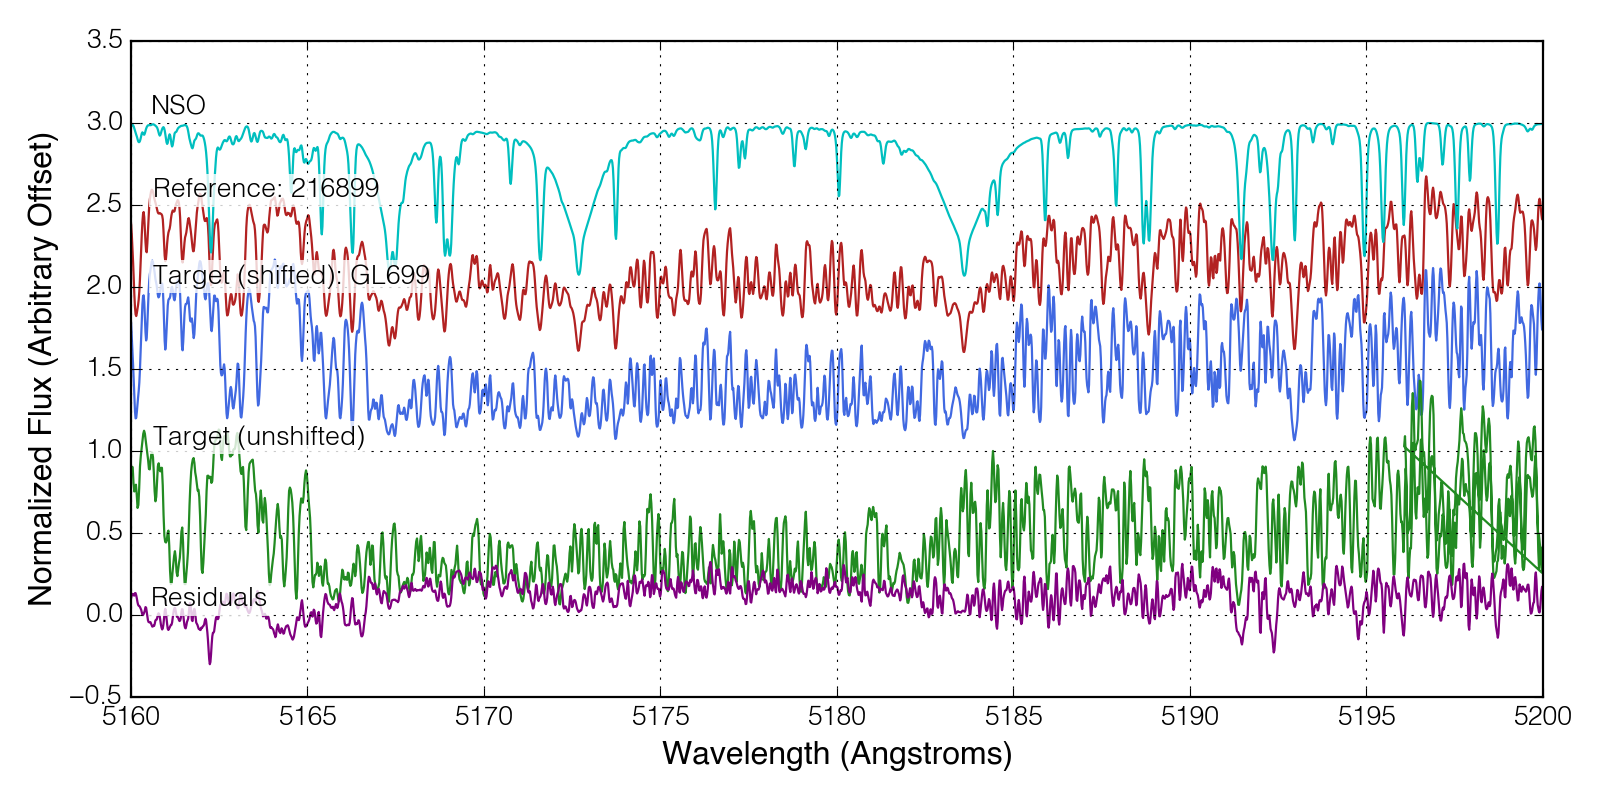
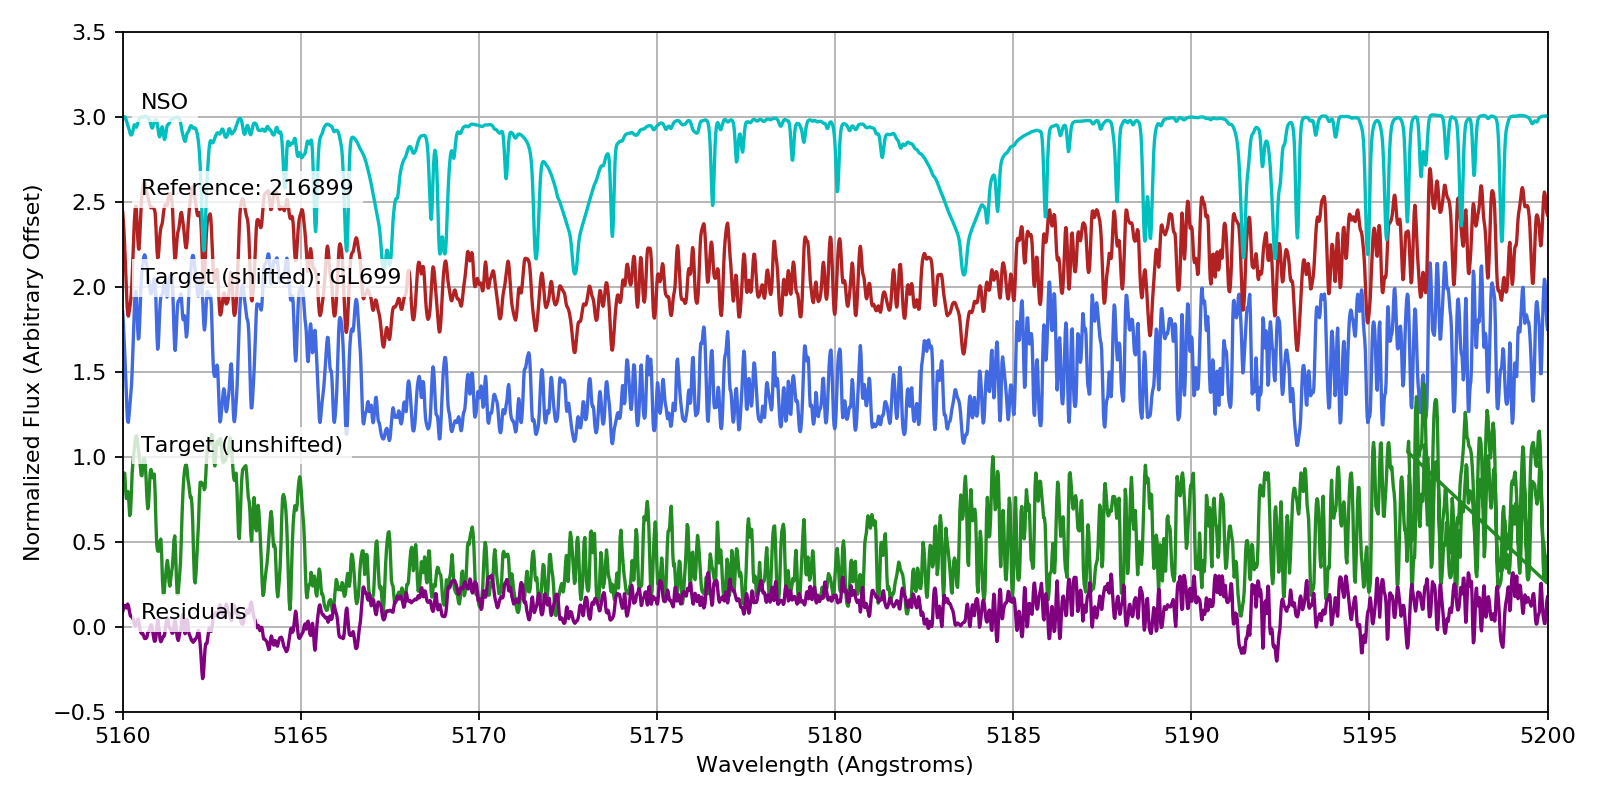
Updated all documentation

diff --git a/docs/quickstart.py b/docs/quickstart.py
@@ -53,8 +53,8 @@ g = cut.groupby(pd.cut(cut.Teff,bins=arange(3000,7000,500)))
 cut = g.first()
 
 fig = figure()
-plot(lib.library_params.Teff, lib.library_params.radius,'.', label='_nolegend_')
-plot(cut.Teff, cut.radius,'o', label='Selected Stars')
+plot(lib.library_params.Teff, lib.library_params.radius,'b.', label='_nolegend_')
+plot(cut.Teff, cut.radius,'ro', label='Selected Stars')
 legend()
 smplot.label_axes('Teff','radius')
 fig.savefig('quickstart-library-selected-stars.png')
@@ -95,8 +95,7 @@ M_star = lib.pop(idx2)
 
 # code-start-read-spectrum-G
 from specmatchemp import spectrum
-G_spectrum = spectrum.read_hires_fits('../samples/rj59.1923.fits').\
-             cut(5130,5210)
+G_spectrum = spectrum.read_hires_fits('../samples/rj59.1923.fits').cut(5130,5210)
 G_spectrum.name = 'HD190406'
 # code-stop-read-spectrum-G
 
@@ -130,18 +129,18 @@ sm_M = SpecMatch(M_spectrum, lib)
 sm_M.shift()
 
 # Plot shifts
-fig = plt.figure(figsize=(10,5))
-sm_M.plot_shifted_spectrum(wavlim=(5160,5200))
+fig = plt.figure(figsize=(10, 5))
+sm_M.plot_shifted_spectrum(wavlim=(5160, 5200))
 # code-stop-shift-spectrum-M
 fig.set_tight_layout(True)
 fig.savefig('quickstart-Mstar-shifts.png')
 
-print "Running brute-force match, G-star"
+print("Running brute-force match, G-star")
 # code-start-match-G
 sm_G.match()
 
 # Plot chi-squared surfaces
-fig = figure(figsize=(12,8))
+fig = figure(figsize=(12, 8))
 sm_G.plot_chi_squared_surface()
 # Indicate library parameters for target star.
 axes = fig.axes
@@ -153,7 +152,7 @@ axes[2].axvline(G_star[0]['feh'], color='k')
 fig.set_tight_layout(True)
 fig.savefig('quickstart-Gstar-chisquared-surface.png')
 
-print "Running linear combinations, G-star"
+print("Running linear combinations, G-star")
 # code-start-lincomb-G
 sm_G.lincomb()
 
@@ -165,10 +164,9 @@ print('Teff: {0:.0f}, Radius: {1:.2f}, [Fe/H]: {2:.2f}'.format(
     G_star[0]['Teff'], G_star[0]['radius'], G_star[0]['feh']))
 # code-stop-lincomb-G
 
-print "Running linear combinations, G-star"
 # code-start-plot-lincomb-G
 # Plot HR diagram
-fig1 = figure(figsize=(12,10))
+fig1 = figure(figsize=(12, 10))
 sm_G.plot_references(verbose=True)
 # plot target onto HR diagram
 axes = fig1.axes

diff --git a/specmatchemp/specmatch.py b/specmatchemp/specmatch.py
@@ -75,7 +75,8 @@ class SpecMatch(object):
         if wavlim is None:
             self.wavlim = lib.wavlim
         else:
-            self.wavlim = wavlim
+            self.wavlim = (max(wavlim[0], lib.wavlim[0]),
+                           min(wavlim[1], lib.wavlim[1]))
         self.regions = self.wavlim
 
         # truncate target spectrum and library
@@ -192,7 +193,7 @@ class SpecMatch(object):
         elif isinstance(wavlim, tuple) or wavlim is None or wavlim == 'all':
             if wavlim is None or wavlim == 'all':
                 # If no wavlim is provided, use the library wavlim
-                wavlim = self.wavlim
+                wavlim = self.target.wavlim()
 
             if wavstep is None:
                 # If no wavstep is provided, use the entire region given
@@ -206,11 +207,9 @@ class SpecMatch(object):
 
         regions.sort()
         # ensure regions don't exceed either the spectrum or library bounds
-        regions[0] = (max(regions[0][0], self.wavlim[0],
-                          np.round(self.target.w[0], 2)), regions[0][1])
+        regions[0] = (max(regions[0][0], self.wavlim[0]), regions[0][1])
         regions[-1] = (regions[-1][0],
-                       min(regions[-1][1], self.wavlim[1],
-                           np.round(self.target.w[-1], 2)))
+                       min(regions[-1][1], self.wavlim[1]))
 
         # save regions
         self.regions = regions
@@ -1014,7 +1013,7 @@ class SpecMatch(object):
 
         def _plot_ref_params(paramx, paramy, zoom=False):
             plt.plot(self.match_results[paramx], self.match_results[paramy],
-                     '.', alpha=0.6, label='_nolegend_')
+                     'b.', alpha=0.6, label='_nolegend_')
             plt.plot(self.match_results.head(num_best)[paramx],
                      self.match_results.head(num_best)[paramy], '^',
                      color='forestgreen', label='Best Matches')

diff --git a/specmatchemp/library.py b/specmatchemp/library.py
@@ -261,9 +261,9 @@ class Library(object):
         the library.
 
         Args:
-            index (int of array of ints): Indices of spectra to remove.
+            index (int or array of ints): Indices of spectra to remove.
         """
-        if isinstance(indices, int):
+        if isinstance(indices, int) or isinstance(indices, np.integer):
             indices = [indices]
 
         # remove None
@@ -766,7 +766,7 @@ def read_hdf(path=None, wavlim='all', lib_index_subset=None):
             If 'none', reads in library without spectra.
             If 'all', reads in complete stored spectra.
         lib_index_subset (iterable, optional): Load a subset of the library
-            useful for debuging and testing code. May be a list or a np.s_ 
+            useful for debuging and testing code. May be a list or a np.s_
             object. If passing a list, it must be in strictly increasing order
             due to the memory access protocol of h5py.
 
@@ -824,6 +824,7 @@ def read_hdf(path=None, wavlim='all', lib_index_subset=None):
 
     lib = Library(wav, library_spectra, library_params[Library.LIB_COLS],
                   header=header, wavlim=wavlim, param_mask=param_mask, nso=nso)
+
     return lib
 
 

diff --git a/docs/conf.py b/docs/conf.py
@@ -72,7 +72,7 @@ master_doc = 'index'
 
 # General information about the project.
 project = 'specmatch-emp'
-copyright = '2016, Samuel Yee, Erik Petigura'
+copyright = '2017, Samuel Yee, Erik Petigura'
 author = 'Samuel Yee, Erik Petigura'
 
 # The version info for the project you're documenting, acts as replacement for
@@ -80,9 +80,9 @@ author = 'Samuel Yee, Erik Petigura'
 # built documents.
 #
 # The short X.Y version.
-version = '0.2'
+version = '0.3'
 # The full version, including alpha/beta/rc tags.
-release = '0.2'
+release = '0.3'
 
 # The language for content autogenerated by Sphinx. Refer to documentation
 # for a list of supported languages.

diff --git a/specmatchemp/cli.py b/specmatchemp/cli.py
@@ -84,7 +84,7 @@ def main():
     psr_sm.add_argument("--n_lib_subset", type=int, default=NSPEC_DEBUG,
                         help="Number of random stars to select from library. Useful for the purposes of debugging")
     psr_sm.add_argument("-d", "--debug", action='store_true',
-                        help="Run with paired down library")
+                        help="Run with pared down library")
 
     psr_sm.set_defaults(func=specmatch_spectrum)
 

diff --git a/specmatchemp/spectrum.py b/specmatchemp/spectrum.py
@@ -219,6 +219,10 @@ class Spectrum(object):
         """
         return np.allclose(w, self.w, rtol=1e-8)
 
+    def wavlim(self):
+        """Gets the wavelength range of the spectrum"""
+        return (self.w[0], self.w[-1])
+
     def plot(self, wavlim='all', offset=0, label='_nolegend_', showmask=False,
              normalize=True, plt_kw={'color': 'RoyalBlue'}, text='',
              text_kw={}):

diff --git a/specmatchemp/plots.py b/specmatchemp/plots.py
@@ -120,7 +120,7 @@ def label_axes(param_x=None, param_y=None, rescale=True):
             ax = plt.gca()
             ax.set_yscale('log')
             yt = [0.1, 0.2, 0.3, 0.4, 0.5, 0.7, 1, 2, 3, 4, 5, 7, 10, 20]
-            ax.set_yticks(yt, yt)
+            ax.set_yticks(yt, minor=False)
             ax.set_ylim(0.1, 20)
 
 

diff --git a/setup.py b/setup.py
@@ -3,9 +3,9 @@ from setuptools import setup, find_packages
 
 on_rtd = os.environ.get('READTHEDOCS') == 'True'
 shift_only = False
-if "--shift" in sys.argv:
+if "--shift-only" in sys.argv:
     shift_only = True
-    sys.argv.remove("--shift")
+    sys.argv.remove("--shift-only")
 
 if on_rtd:
     setup(

diff --git a/docs/build-library.rst b/docs/build-library.rst
@@ -24,18 +24,20 @@ spectra are:
 
    $ ls ${SMEMP_WKDIR}/spectra/
    nso.fits # solar spectrum, ~5800 K
-   rj55.1872.fits # ~4800 K
-   rj26.532.fits # ~3700 K
-   rj59.1926.fits # ~6200 K
+   *j55.1872.fits # ~4800 K
+   *j26.532.fits # ~3700 K
+   *j59.1926.fits # ~6200 K
+
+Where at least the r chip must be provided.
 
 We shift the spectra using by
 
 ::
 
    $ python specmatchemp/buildlib/shift_references.py
-   Shifting spectrum rj55.1872 onto reference nso
-   Shifting spectrum rj26.532 onto reference nso
-   Shifting spectrum rj59.1926 onto reference rj55.1872
+   Shifting spectrum j55.1872 onto reference nso
+   Shifting spectrum j26.532 onto reference nso
+   Shifting spectrum j59.1926 onto reference j55.1872
 
 Which leaves the wavelength calibrated spectra here:
 
@@ -43,9 +45,9 @@ Which leaves the wavelength calibrated spectra here:
    
    $ ls ${SMEMP_WKDIR}/shifted_spectra/
    nso_adj.fits
-   rj26.532_adj.fits
-   rj55.1872_adj.fits
-   rj59.1926_adj.fits
+   j26.532_adj.fits
+   j55.1872_adj.fits
+   j59.1926_adj.fits
 
 Build Table of Library Parameters
 ~~~~~~~~~~~~~~~~~~~~~~~~~~~~~~~~~
@@ -97,7 +99,7 @@ Shift Library Spectra onto Rest Wavelength Scale
 
 We shift the remainder of the library spectra onto the rest
 wavelength scale with the following command, where jXXX.XXXX is the
-cps observation id.
+cps observation id. Only the rj chip is required.
 
 ::
 

diff --git a/docs/installation.rst b/docs/installation.rst
@@ -22,11 +22,31 @@ Then, simply run
 This downloads all dependencies and data files, and creates the
 command line scripts. 
 
+The python package setuptools is required to install SpecMatch-Emp.
+If not already installed on your system, run
+
+::
+
+	$ pip install setuptools
+
+
+Minimal Install
+---------------
+
+As of v0.3, it is possible to install SpecMatch-Emp without downloading
+the full library. This will allow only the shifting code to be used.
+
+::
+
+	$ python setup.py install --shift-only
+
+
 Software dependencies
 ---------------------
 
 To install
 
+- setuptools
 - wget (facilitates downloading files).
 
 Python Packages
@@ -37,24 +57,23 @@ To use SpecMatch-Emp:
 - scipy
 - matplotlib
 - h5py
+- astropy (>=1.3)
 - pandas (>=0.18)
 - lmfit (>=0.9)
 
 To build library:
-
-- astropy
 - astroquery
 - isochrones
 
 
 Data Files
-~~~~~~~~~~
+----------
 
 These data files are automatically downloaded upon installation.
 
 - ``library.h5``: the HDF5 archive of spectra.
 - ``hires_telluric_mask.csv``: mask of telluric lines in HIRES spectra
 - ``detrend.csv``: parameter calibration info
-- ``nso.fits``, ``rj26.532.fits``, ``rj72.718.fits``,
-  ``rj59.1926.fits`` spectra used as wavelength standards
+- ``nso.fits``, ``j26.532_adj.fits``, ``j72.718_adj.fits``,
+  ``j59.1926_adj.fits`` spectra used as wavelength standards
  

diff --git a/docs/cmdline.rst b/docs/cmdline.rst
@@ -53,11 +53,15 @@ Options
     Excludes the spectrum with the given name in the library, from the
     specmatch algorithm. Meant for validation purposes.
 
+\--n_lib_subset <n>
+    Run SpecMatch-Emp with only n random stars (default = 25). Useful
+    for debugging purposes.
+
 
 Shift
 -----
-This command runs only the shifting part of the code, placing the target spectrum onto
-the library (NSO) wavelength scale.
+This command runs only the shifting part of the code, placing the target spectrum
+onto the library (NSO) wavelength scale.
 
 ::
 
@@ -66,7 +70,9 @@ the library (NSO) wavelength scale.
 
 spectrum
     Either the full path to the target spectrum, or a CPS id (jXX.XXXX), where the
-    ``-d`` option specifies the directory to look for the file.
+    ``-d`` option specifies the directory to look for the file. If a CPS id is
+    provided, SpecMatch-Emp will search for all chips and shift them 
+    simultaneously.
 
 
 Options

diff --git a/docs/index.rst b/docs/index.rst
@@ -19,7 +19,9 @@ FITS files.
 
 Code availability
 ~~~~~~~~~~~~~~~~~
-The ``SpecMatch-Emp`` codebase is availble on GitHub. Follow the :ref:`installation` page.
+The ``SpecMatch-Emp`` codebase is availble on GitHub. Simply clone the
+repository and run ``python setup.py install``. For more details, go to
+the :ref:`installation` page.
 
 Basic Usage
 ~~~~~~~~~~~
@@ -39,7 +41,8 @@ For a more general usage primer, check out the :ref:`quickstart` page.
 Attribution
 ~~~~~~~~~~~
 
-If you make use of the specmatch-emp spectral library or matching code, please cite Yee et al. (2017) `[ADS Record] <http://adsabs.harvard.edu/abs/2017arXiv170100922Y>`_
+If you make use of the specmatch-emp spectral library or matching code,
+please cite Yee et al. (2017) `[ADS Record] <http://adsabs.harvard.edu/abs/2017arXiv170100922Y>`_
 
 
 
